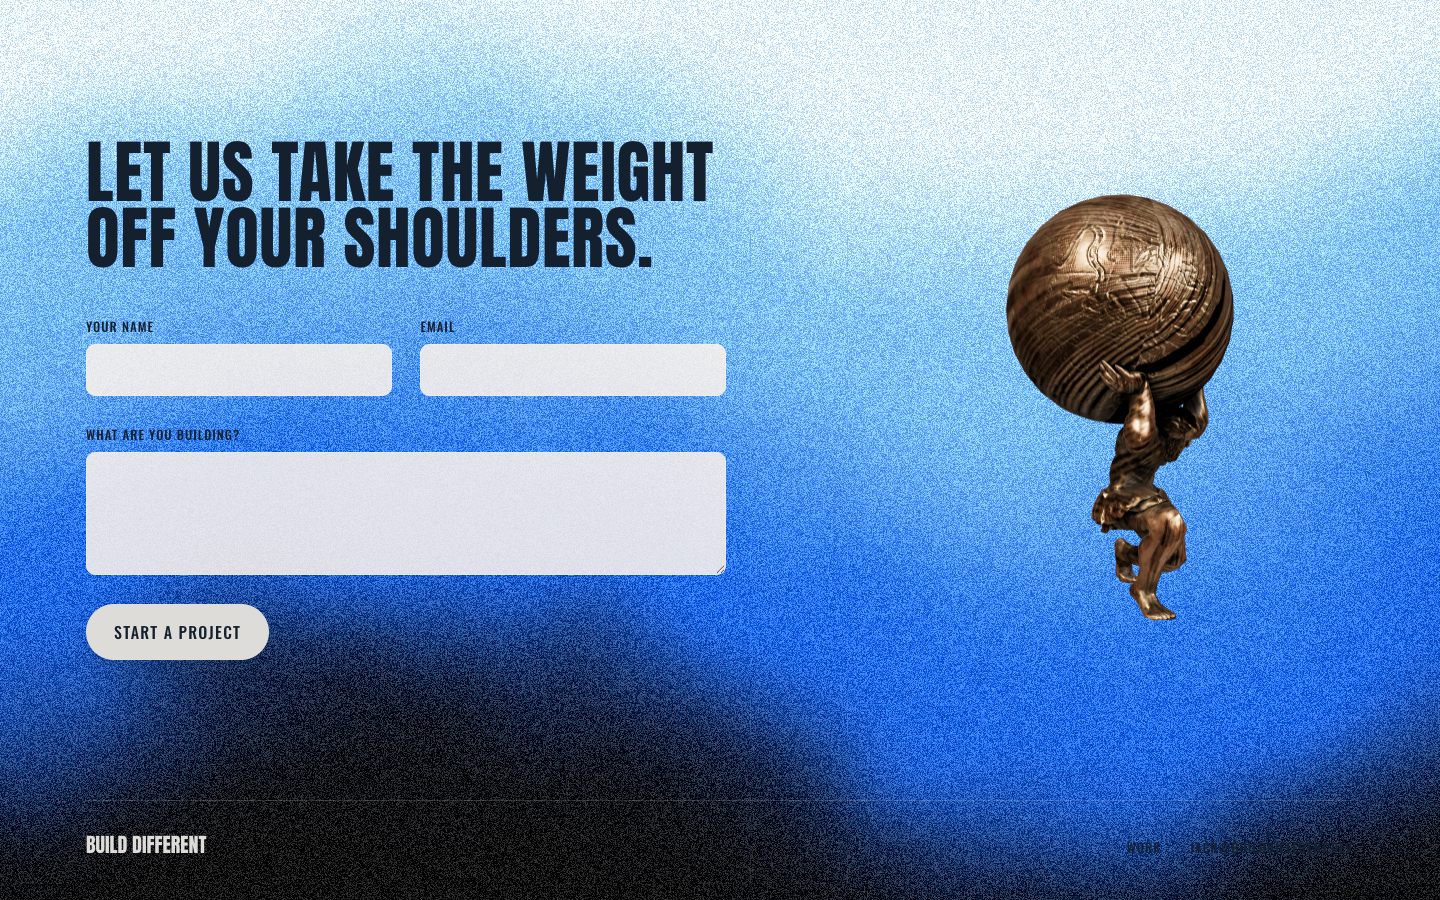
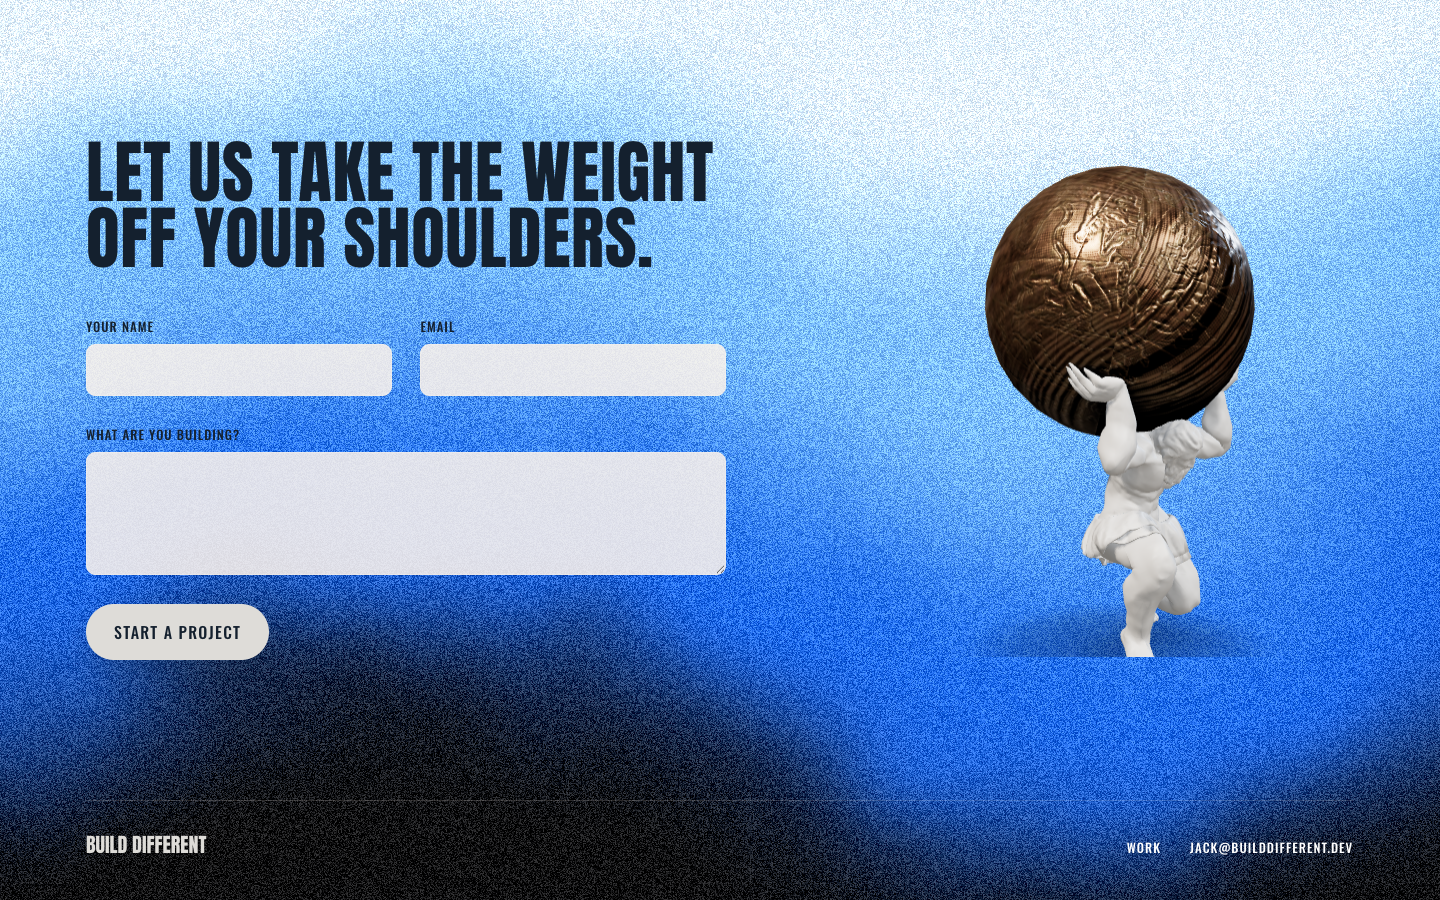
Atlas carved in marble with a bronze globe, lit like the hero, on a soft shadow, larger and lower
Claude-Session: https://claude.ai/code/session_01NAdPXLUXCGhh82qBsMYyAh

Changed region(s): [[0.6562, 0.1867, 0.875, 0.7467], [0.7812, 0.9333, 0.9375, 0.9644]]

diff --git a/src/footer/AtlasCanvas.tsx b/src/footer/AtlasCanvas.tsx
@@ -1,6 +1,6 @@
 "use client";
 import { Canvas, useFrame } from "@react-three/fiber";
-import { Environment, useGLTF } from "@react-three/drei";
+import { ContactShadows, Environment, useGLTF } from "@react-three/drei";
 import { Suspense, useEffect, useMemo, useRef, useState } from "react";
 import * as THREE from "three";
 
@@ -18,7 +18,30 @@ function Atlas({ visible }: { visible: boolean }) {
   useEffect(() => { if (visible && group.current) group.current.rotation.y = FRONT; }, [visible]);
   const scene = useMemo(() => {
     const s = gltf.scene;
-    s.traverse((o) => { if ((o as THREE.Mesh).isMesh) { (o as THREE.Mesh).castShadow = true; (o as THREE.Mesh).receiveShadow = true; } });
+    s.traverse((o) => {
+      if (!(o as THREE.Mesh).isMesh) return;
+      const m = o as THREE.Mesh;
+      m.castShadow = true;
+      m.receiveShadow = true;
+      const src = m.material as THREE.MeshStandardMaterial;
+      const isGlobe = /sphere/i.test(m.name) || /sphere/i.test(src.name ?? "");
+      if (isGlobe) {
+        // the world stays bronze: the one warm note
+        src.envMapIntensity = 0.9;
+        return;
+      }
+      // the figure is carved in the site's marble, keeping the model's own surface detail
+      m.material = new THREE.MeshPhysicalMaterial({
+        color: new THREE.Color("#e4e1dc"),
+        roughness: 0.42,
+        metalness: 0,
+        clearcoat: 0.15,
+        clearcoatRoughness: 0.6,
+        normalMap: src.normalMap ?? null,
+        normalScale: new THREE.Vector2(0.8, 0.8),
+        envMapIntensity: 0.6,
+      });
+    });
     return s;
   }, [gltf.scene]);
   const reduced = useRef(false);
@@ -28,7 +51,7 @@ function Atlas({ visible }: { visible: boolean }) {
     group.current.rotation.y += Math.min(dt, 0.05) * 0.22;
   });
   return (
-    <group ref={group} position={[0, -1.1, 0]} rotation={[0, FRONT, 0]}>
+    <group ref={group} position={[0, -1.35, 0]} rotation={[0, FRONT, 0]} scale={1.18}>
       <primitive object={scene} />
     </group>
   );
@@ -50,11 +73,15 @@ export function AtlasCanvas() {
       <Canvas dpr={[1, 1.75]} frameloop={visible ? "always" : "never"} gl={{ antialias: true, alpha: true }} shadows camera={{ fov: 30, position: [0, 0.35, 5.2], near: 0.1, far: 30 }}
         onCreated={({ gl }) => { gl.toneMapping = THREE.ACESFilmicToneMapping; gl.toneMappingExposure = 1.0; gl.setClearColor(0x000000, 0); }}>
         <Suspense fallback={null}>
-          <Environment files="/hdri/brown_photostudio_02_1k.hdr" environmentIntensity={0.9} />
+          <Environment files="/hdri/brown_photostudio_02_1k.hdr" environmentIntensity={0.45} />
           <Atlas visible={visible} />
+          {/* a soft shadow on the ground so he stands rather than floats */}
+          <ContactShadows position={[0, -1.36, 0]} opacity={0.45} scale={5} blur={2.4} far={2.5} color="#0b1a2e" />
         </Suspense>
-        <directionalLight position={[-3, 5, 3]} intensity={2.4} color="#fff3e6" castShadow shadow-mapSize={[1024, 1024]} />
-        <hemisphereLight args={["#dfe8f2", "#6f6a63", 0.5]} />
+        {/* the hero's light: warm key from the upper left, cool sky fill, a cold rim from behind */}
+        <directionalLight position={[-3, 5, 3]} intensity={2.6} color="#fff3e6" castShadow shadow-mapSize={[1024, 1024]} />
+        <directionalLight position={[3, 2, -4]} intensity={1.2} color="#9fc4f0" />
+        <hemisphereLight args={["#bcd6f2", "#6f6a63", 0.7]} />
       </Canvas>
     </div>
   );
